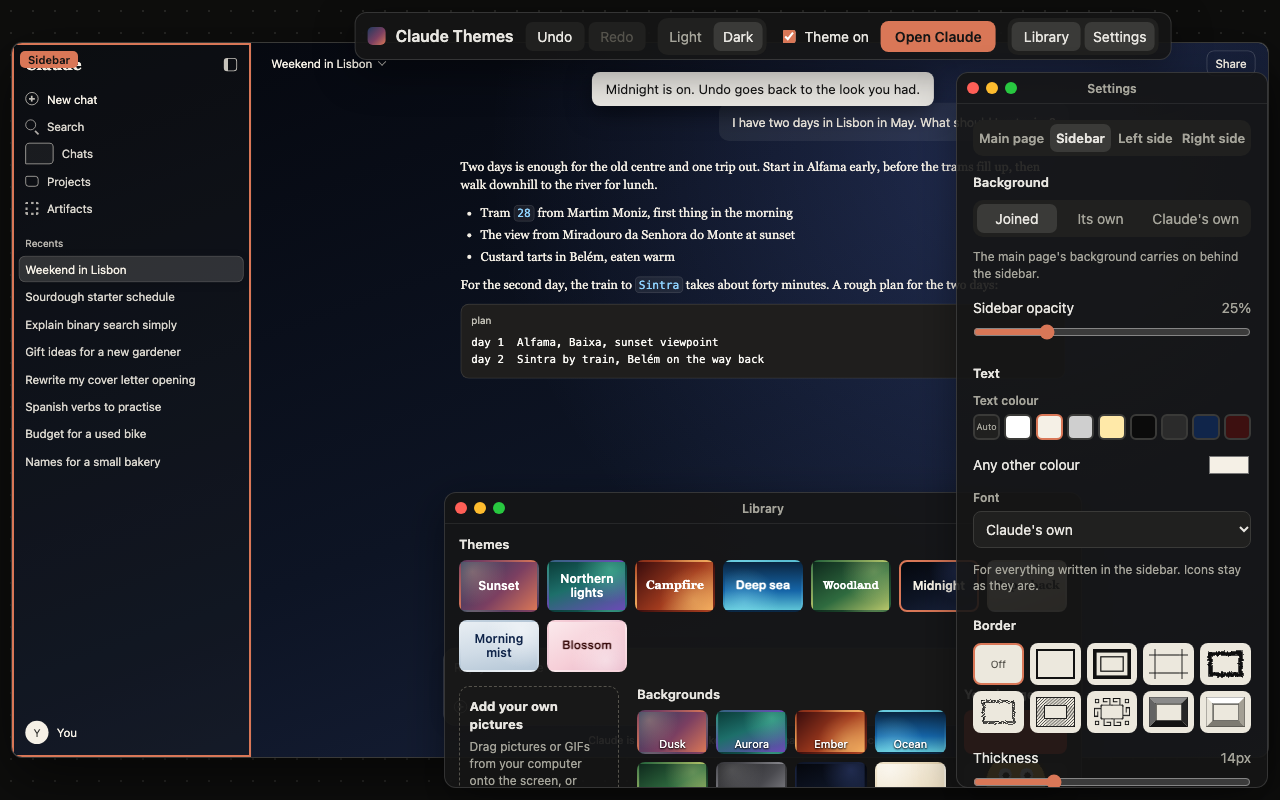
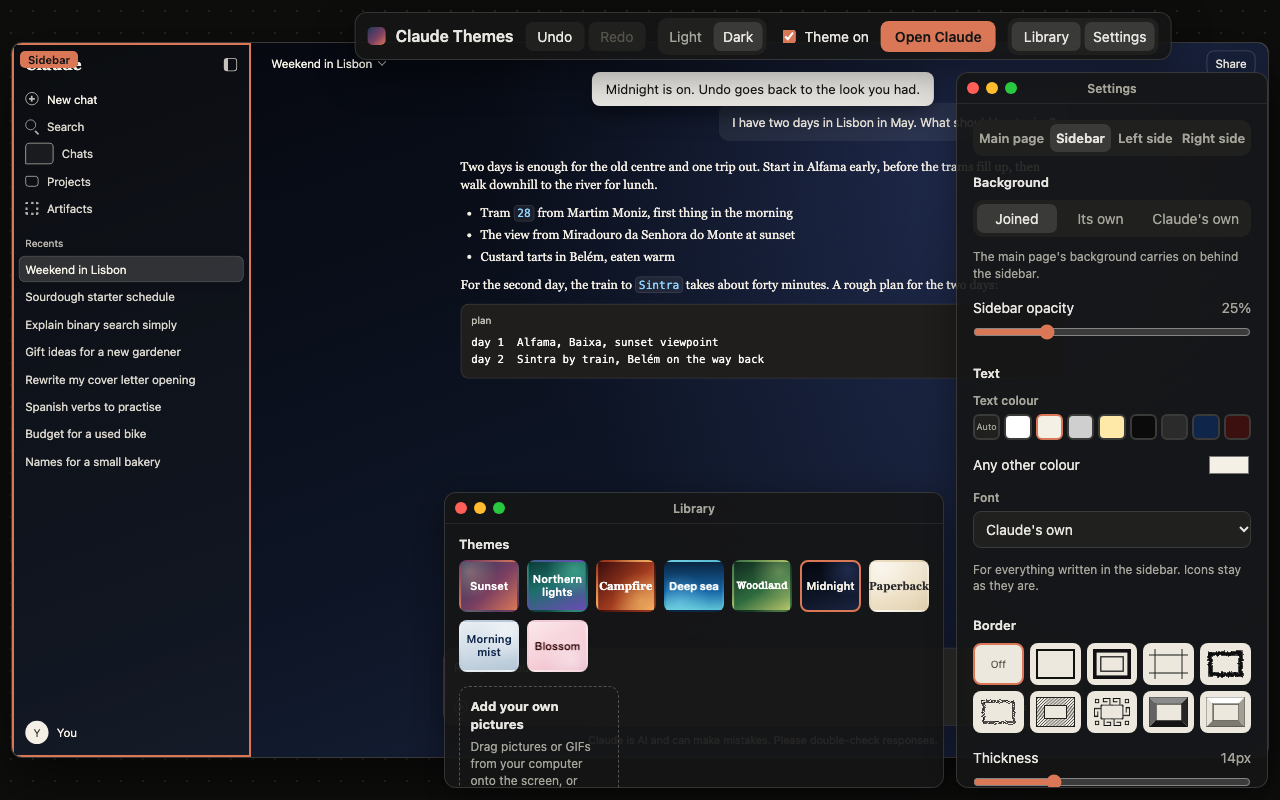
Version 0.19.1: fixes from an independent review of 0.19.0
- The Library starts beside the Settings window, not partly under it. At
  1512 wide the ninth theme tile was hidden.
- A refused save reads the stored value back and clears Undo. The first
  fix put back the last attempted value, which was wrong while a slider
  was still moving and each write was refused a little later.
- The readability warning no longer suggests full opacity for a picture
  that is already at full opacity.
- Deep sea is at 45% strength, so its palest corner reads in dark mode.
  The tests now record the contrast at the worst spot too (lowest 4.57 to
  1), beside the contrast three quarters of the background reaches.
- The cross on a saved picture has a name for screen readers.
- The changelog, README and store text say what was checked about
  keyboard use: controls can be reached and named, dragging needs a mouse.
- New tests: a theme clicked in the real extension reaches the page and
  Undo takes it back; the shortcut line when Chrome gave no keys.

diff --git a/tests/fragments/editor.tail.html b/tests/fragments/editor.tail.html
@@ -264,15 +264,23 @@
   r.readable.afterItsButton = { textColor: store.textColor, warning: warning("text-warning") };
   await chrome.storage.local.set({ opacity: 0.5, textColor: null, sidebarMode: "own", sidebarPreset: "graphite", sidebarOpacity: 1, sidebarTextColor: "#2b2b2b" }); await wait(250);
   r.readable.sidebarHasItsOwn = { main: warning("text-warning"), sidebar: warning("side-text-warning") };
+  const halves = (() => { const c = document.createElement("canvas"); c.width = 8; c.height = 8; const x = c.getContext("2d"); x.fillStyle = "#ffffff"; x.fillRect(0, 0, 8, 4); x.fillStyle = "#000000"; x.fillRect(0, 4, 8, 4); return c.toDataURL("image/png"); })();
+  await chrome.storage.local.set({ "image-hf": halves, images: [...store.images, { id: "hf", thumb: halves }] }); await wait(80);
+  await chrome.storage.local.set({ preset: null, imageId: "hf", opacity: 1, textColor: null, sidebarMode: "plain", sidebarTextColor: null }); await wait(250);
+  r.readable.halfLightHalfDarkAtFullStrength = warning("text-warning");
+  await chrome.storage.local.set({ opacity: 0.4 }); await wait(250);
+  r.readable.theSamePictureFaded = warning("text-warning");
   await chrome.storage.local.set({ enabled: false }); await wait(150);
   r.readable.nothingWhenTheThemeIsOff = [warning("text-warning"), warning("side-text-warning")];
   await chrome.storage.local.set({ ...freshSettings() }); await wait(150);
 
   // ----- the ready-made themes -----
-  const worst = {};
+  const worst = {}, worstSpot = {};
   for (const theme of builtInThemes) { const c = themeChange(theme), main = await sourceColours(c.preset, null, []), side = await sourceColours(c.sidebarPreset, null, []);
-    worst[theme.id] = Math.min(...["main", "sidebar"].flatMap((place) => ["light", "dark"].map((mode) => reads(place === "main" ? c.textColor : c.sidebarTextColor, mode, backdrop(c, place, mode, main, side))))); }
-  r.builtInThemes = { names: builtInThemes.map((t) => t.name).join(", "), tiles: el("themes").children.length, leastContrastInEitherModeOnPageOrSidebar: worst, allReadWell: Object.values(worst).every((n) => n >= 4.5),
+    const everywhere = ["main", "sidebar"].flatMap((place) => ["light", "dark"].map((mode) => ({ text: place === "main" ? c.textColor : c.sidebarTextColor, mode, behind: backdrop(c, place, mode, main, side) })));
+    worst[theme.id] = Math.min(...everywhere.map((w) => reads(w.text, w.mode, w.behind)));
+    worstSpot[theme.id] = Math.min(...everywhere.flatMap((w) => w.behind.map((colour) => contrast(rgb(w.text || claudeColours[w.mode].text), colour)))); }
+  r.builtInThemes = { names: builtInThemes.map((t) => t.name).join(", "), tiles: el("themes").children.length, contrastOnThreeQuartersOfTheBackground: worst, contrastAtTheWorstSpot: worstSpot, allReadWell: Object.values(worst).every((n) => n >= 4.5) && Object.values(worstSpot).every((n) => n >= 4.5),
     settingsAThemeFileCouldNotHold: builtInThemes.flatMap((t) => Object.entries(t.settings).filter(([k, v]) => !soundSetting(k, v)).map(([k]) => t.id + "." + k)),
     backgroundsThatDoNotExist: builtInThemes.filter((t) => !presets.some((p) => p.id === t.settings.preset)).map((t) => t.id) };
   await chrome.storage.local.set({ preset: null, imageId: "th", stickerLeft: "ts", frameMain: "custom", frameImage: colourImage("#ff0000"), frameSlice: [1, 1, 1, 1], textColor: "#123456", sidebarMode: "plain" }); await wait(150);
@@ -294,13 +302,14 @@
   const controls = [...document.querySelectorAll("button, input:not([type=file]), select, a[href]")].filter((c) => !c.closest(".warn[hidden]")), choices = [...document.querySelectorAll(".pair button, .tile, .swatch, .frame-choice")];
   el("show-library").focus(); const ring = getComputedStyle(el("show-library"));
   r.withoutAMouse = { controls: controls.length, withNoName: [...new Set(controls.filter((c) => !nameOf(c)).map(called))], choices: choices.length, choicesThatDoNotSayWhetherTheyAreOn: [...new Set(choices.filter((c) => !c.hasAttribute("aria-pressed")).map(called))],
-    cannotBeTabbedTo: controls.filter((c) => c.tabIndex < 0).map(called), focusRing: ring.outlineStyle + " " + ring.outlineWidth, messagesAreReadOut: el("toast").getAttribute("role"),
+    takenOutOfTheTabOrder: controls.filter((c) => c.tabIndex < 0).map(called), removeButtonsSay: [...new Set([...document.querySelectorAll(".remove")].map(nameOf))], focusRing: ring.outlineStyle + " " + ring.outlineWidth, messagesAreReadOut: el("toast").getAttribute("role"),
     pageOverlayHiddenFromScreenReaders: el("overlay").getAttribute("aria-hidden"), windowsNamed: ["library", "inspector"].map((w) => el(w).getAttribute("aria-label")).join(", ") };
   el("theme-reset").focus(); el("theme-reset").click(); await wait(60); const inAsk = document.activeElement.id; el("ask-no").click(); await wait(60);
   r.withoutAMouse.question = { focusGoesToIt: inAsk, andBackAfter: document.activeElement.id };
 
   // ----- the foot of the library: version, shortcut, where to report a problem -----
-  r.about = { showsTheVersionChromeIsRunning: el("version").textContent === chrome.runtime.getManifest().version && /^\d+\.\d+\.\d+$/.test(el("version").textContent), shortcut: el("shortcut").textContent,
+  window.shortcutKeys = ""; await showShortcut(); const withoutKeys = el("shortcut").textContent; window.shortcutKeys = undefined; await showShortcut();
+  r.about = { whenAnotherExtensionHasTheKeys: withoutKeys, showsTheVersionChromeIsRunning: el("version").textContent === chrome.runtime.getManifest().version && /^\d+\.\d+\.\d+$/.test(el("version").textContent), shortcut: el("shortcut").textContent,
     links: [...el("about").querySelectorAll("a")].map((a) => a.textContent + " -> " + a.href + (a.target === "_blank" ? " (new tab)" : "")) };
 
   // ----- a change Chrome cannot store is put back, and the person is told -----
@@ -308,6 +317,9 @@
   chrome.storage.local.set = async () => { throw new Error("disk full"); };
   set("opacity", opacityStored === 11 ? 12 : 11); await wait(60);
   r.saveFails = { told: el("toast").hidden ? "" : el("toast").textContent, sliderBackAtStoredValue: Number(el("opacity").value) === opacityStored };
+  chrome.storage.local.set = async () => { await wait(40); throw new Error("disk full"); };
+  for (const value of [71, 72, 73, 74, 75]) { set("opacity", value); await wait(15); } await wait(200);
+  r.saveFails.afterFiveQuickChangesEachRefusedLater = { slider: Number(el("opacity").value) === opacityStored ? "at the stored value" : el("opacity").value, undoOff: el("undo").disabled, redoOff: el("redo").disabled };
   chrome.storage.local.set = realSet;
 
   // ----- the toolbar icon -----

diff --git a/editor.js b/editor.js
@@ -87,15 +87,14 @@ function save(change, how = "step") {
     if (how !== "none") {
         remember(change, how === "flow");
     }
-    const before = {};
-    for (const key of Object.keys(change)) {
-        before[key] = state[key];
-    }
     Object.assign(state, change);
     // Chrome can refuse to store a change (a full disk, a profile it cannot write to).
-    // The page only ever shows what is stored, so the editor goes back to that too.
-    chrome.storage.local.set(change).catch((error) => {
-        Object.assign(state, before);
+    // The page only ever shows what is stored, so the editor reads that back. Earlier
+    // steps may have been refused too, so Undo starts again from here.
+    chrome.storage.local.set(change).catch(async (error) => {
+        const asked = Object.fromEntries(Object.keys(change).map((key) => [key, defaults[key]]));
+        Object.assign(state, await chrome.storage.local.get(asked));
+        forgetHistory();
         sync();
         say("Chrome could not save that change, so it was put back. " + error.message);
     });
@@ -489,6 +488,7 @@ function removable(button, title, remove) {
     cross.className = "remove";
     cross.textContent = "×";
     cross.title = title;
+    cross.setAttribute("aria-label", title);
     cross.addEventListener("click", remove);
 
     cell.append(button, cross);
@@ -877,6 +877,13 @@ function layout() {
         const edge = onPage ? 0 : screenBox.getBoundingClientRect().left;
         document.body.style.setProperty("--middle", edge + (column.left + column.width / 2) * scale + "px");
         document.body.style.setProperty("--column", column.width * scale + "px");
+        // The library starts at the column's left edge and stops short of the
+        // settings, which start at the right, so neither covers the other. On a
+        // window too narrow for that it keeps a width it can be used at.
+        const left = edge + column.left * scale;
+        const width = Math.min(column.width * scale, Math.max(420, innerWidth - settingsSpace - left));
+        document.body.style.setProperty("--library-middle", left + width / 2 + "px");
+        document.body.style.setProperty("--library-width", width + "px");
     }
 
     cover(byId("zone-sidebar"), boxes.sidebar);
@@ -1080,6 +1087,9 @@ function watchGrip(grip) {
 // has no `left`, and sits where the stylesheet puts it.
 const windowIds = ["bar", "library", "inspector"];
 const smallest = { width: 220, height: 120 };
+// What the settings take up at the right when they have not been moved: their
+// width, their gap from the edge and a gap beside them (see #inspector in editor.css).
+const settingsSpace = 312 + 12 + 12;
 let windows = {};
 let front = 2;
 

diff --git a/themes.js b/themes.js
@@ -178,7 +178,7 @@ const builtInThemes = [
     { id: "sunset", name: "Sunset", settings: { preset: "dusk", opacity: 0.55 } },
     { id: "northern-lights", name: "Northern lights", settings: { preset: "aurora", opacity: 0.55, font: "sans", sidebarFont: "sans" } },
     { id: "campfire", name: "Campfire", settings: { preset: "ember", opacity: 0.5, font: "serif" } },
-    { id: "deep-sea", name: "Deep sea", settings: { preset: "ocean", opacity: 0.55, font: "rounded", sidebarFont: "rounded" } },
+    { id: "deep-sea", name: "Deep sea", settings: { preset: "ocean", opacity: 0.45, font: "rounded", sidebarFont: "rounded" } },
     { id: "woodland", name: "Woodland", settings: { preset: "forest", opacity: 0.5, font: "typewriter" } },
     {
         id: "midnight",
@@ -296,9 +296,10 @@ byId("welcome-done").addEventListener("click", () => {
 // At the foot of the library: which version this is, and the keys that open the
 // editor. Chrome leaves the keys unset when another extension already has them.
 byId("version").textContent = chrome.runtime.getManifest().version;
-chrome.commands.getAll().then((commands) => {
-    const opener = commands.find((command) => command.name === "_execute_action");
+async function showShortcut() {
+    const opener = (await chrome.commands.getAll()).find((command) => command.name === "_execute_action");
     byId("shortcut").textContent = opener && opener.shortcut
         ? `${opener.shortcut} opens and closes this editor.`
         : "To open this editor from the keyboard, choose the keys at chrome://extensions/shortcuts.";
-});
+}
+showShortcut();

diff --git a/readable.js b/readable.js
@@ -136,9 +136,14 @@ function watchReadability(place, noteId) {
         fix = found.fix;
         note.hidden = found.modes.length === 0;
         const where = found.modes.length === 2 ? "both light and dark mode" : `Claude's ${found.modes[0]} mode`;
+        // With no one colour to offer, the advice depends on how strong the background is.
+        const strength = place === "sidebar" && state.sidebarMode === "own" ? state.sidebarOpacity : state.opacity;
+        const advice = strength < 1
+            ? " A background at full opacity looks the same in both modes, which makes a colour easier to choose."
+            : " The picture has both light and dark areas. A lower opacity fades it into Claude's page colour, where Claude's own text colour reads well.";
         note.querySelector("span").textContent =
             `${state[key] ? "This text colour" : "Claude's own text colour"} may be hard to read on this background in ${where}.` +
-            (fix === undefined ? " A background at full opacity looks the same in both modes, which makes a colour easier to choose." : "");
+            (fix === undefined ? advice : "");
         button.hidden = fix === undefined;
         button.textContent = names.get(fix) || "";
     };

diff --git a/editor.css b/editor.css
@@ -549,8 +549,8 @@ body.moving {
    side by side and wrap when the window is made narrower. */
 #library {
     bottom: 12px;
-    left: var(--middle, 50%);
-    width: min(var(--column, 768px), 100vw - 24px);
+    left: var(--library-middle, var(--middle, 50%));
+    width: min(var(--library-width, var(--column, 768px)), 100vw - 24px);
     height: 296px;
     transform: translateX(-50%);
 }
@@ -749,7 +749,7 @@ h3 {
 }
 
 #themes {
-    grid-template-columns: repeat(auto-fit, minmax(72px, 1fr));
+    grid-template-columns: repeat(auto-fit, minmax(58px, 1fr));
 }
 
 .tile.theme {
@@ -762,8 +762,8 @@ h3 {
     display: flex;
     align-items: center;
     justify-content: center;
-    padding: 0 4px;
-    font-size: 12px;
+    padding: 0 2px;
+    font-size: 11px;
     font-weight: 600;
     line-height: 1.15;
     text-shadow: none;

diff --git a/settings.js b/settings.js
@@ -2,7 +2,7 @@
 
 // Keep this the same as "version" in manifest.json. The editor compares the two to
 // tell whether Chrome is still running an older copy of the extension.
-const filesVersion = "0.19.0";
+const filesVersion = "0.19.1";
 
 const defaults = {
     enabled: true,

diff --git a/CHANGELOG.md b/CHANGELOG.md
@@ -3,6 +3,15 @@
 What changed in each version, newest first. Versions before 0.18.0 were made over two days
 and are grouped.
 
+## 0.19.1 (2026-10-06)
+
+- The Library no longer starts partly under the Settings window, so every theme shows.
+- A change Chrome refuses to store now goes back to the stored value even while a slider
+  is still moving.
+- The readability warning gives advice that fits a picture with both light and dark
+  areas at full opacity.
+- The cross on a saved picture has a name a screen reader can say.
+
 ## 0.19.0 (2026-10-06)
 
 - Nine ready-made themes at the top of the Library. One click switches the whole look.
@@ -13,8 +22,9 @@ and are grouped.
   both.
 - A keyboard shortcut for the editor: Alt+Shift+E, or Option+Shift+E on a Mac. Change it
   at `chrome://extensions/shortcuts`.
-- The editor works without a mouse. Every control has a name a screen reader can say,
-  choices say whether they are on, and the keyboard's place is ringed.
+- Every button, slider and choice in the editor can be reached with Tab and has a name
+  a screen reader can say. Choices say whether they are on, and the keyboard's place is
+  ringed. Dragging a picture or a window still needs a mouse.
 - A question such as "Remove this picture?" starts on Cancel, so Enter never removes
   anything.
 - If Chrome cannot store a change, the editor puts the change back and says so.

diff --git a/README.md b/README.md
@@ -84,7 +84,8 @@ build your own:
   both, with a button that fixes it when one colour reads in both
 - A keyboard shortcut for the editor: Alt+Shift+E, or Option+Shift+E on a Mac. Change it
   at `chrome://extensions/shortcuts`
-- The editor works from the keyboard and with a screen reader
+- Every button, slider and choice in the editor can be reached with Tab and has a name
+  for a screen reader. Dragging a picture or a window still needs a mouse
 - Upload your own frame picture; its thickness is measured for you
 - Works in light and dark mode
 - Save the whole theme to a file, with its pictures, and load it again: as a backup, on

diff --git a/docs/STORE.md b/docs/STORE.md
@@ -47,7 +47,7 @@ The description already says "Unofficial, not made by Anthropic".
 > - Ink and pop-out borders that never move or resize anything
 > - Save a whole theme to a file, with its pictures, to back it up or share it
 > - Works in light and dark mode, and warns you when your text colour is hard to read
-> - Works from the keyboard and with a screen reader
+> - Buttons, sliders and choices work from the keyboard and are named for screen readers
 >
 > What it leaves alone: the message box, menus and code blocks keep Claude's own look, and
 > pages that are not chats are shown as Claude draws them.
